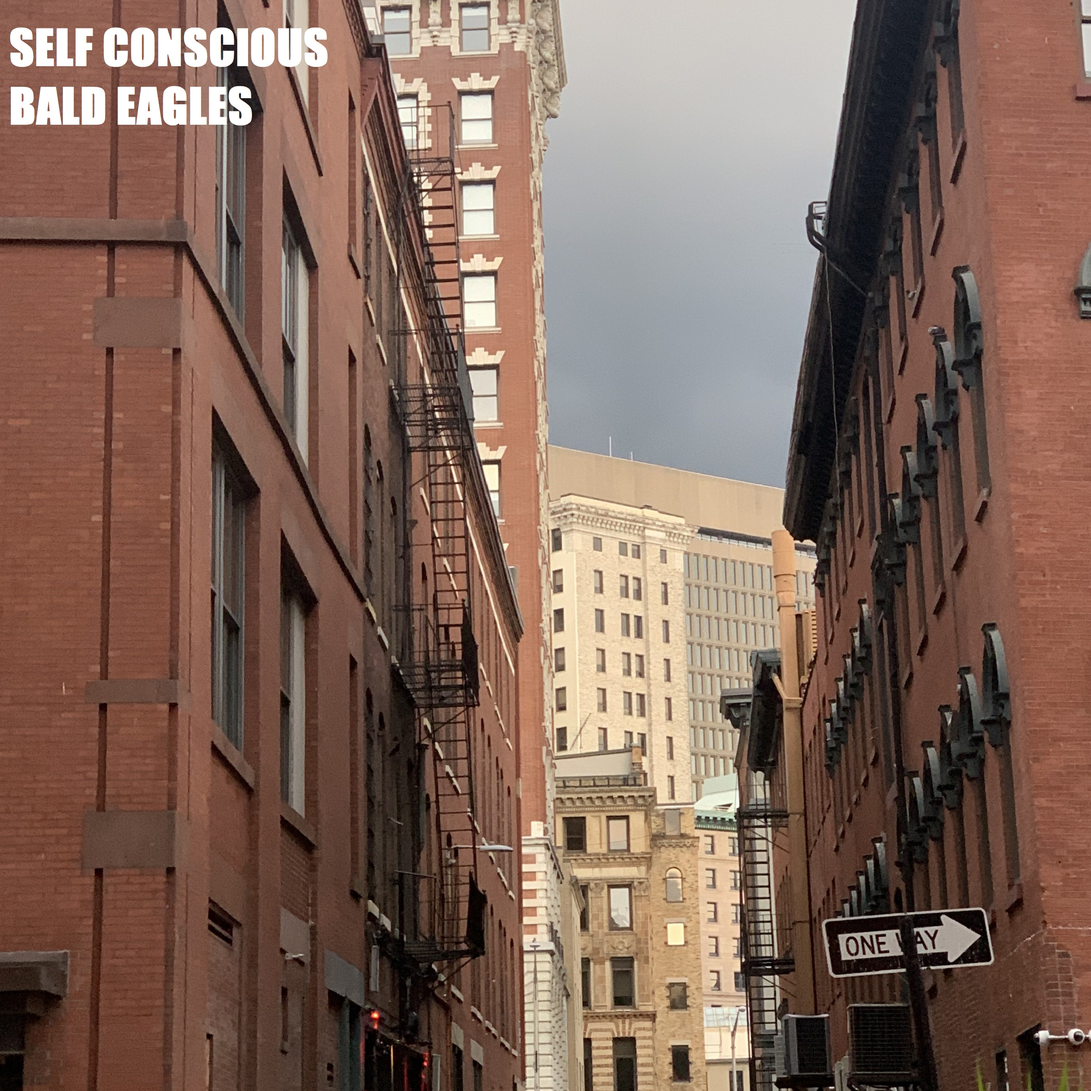
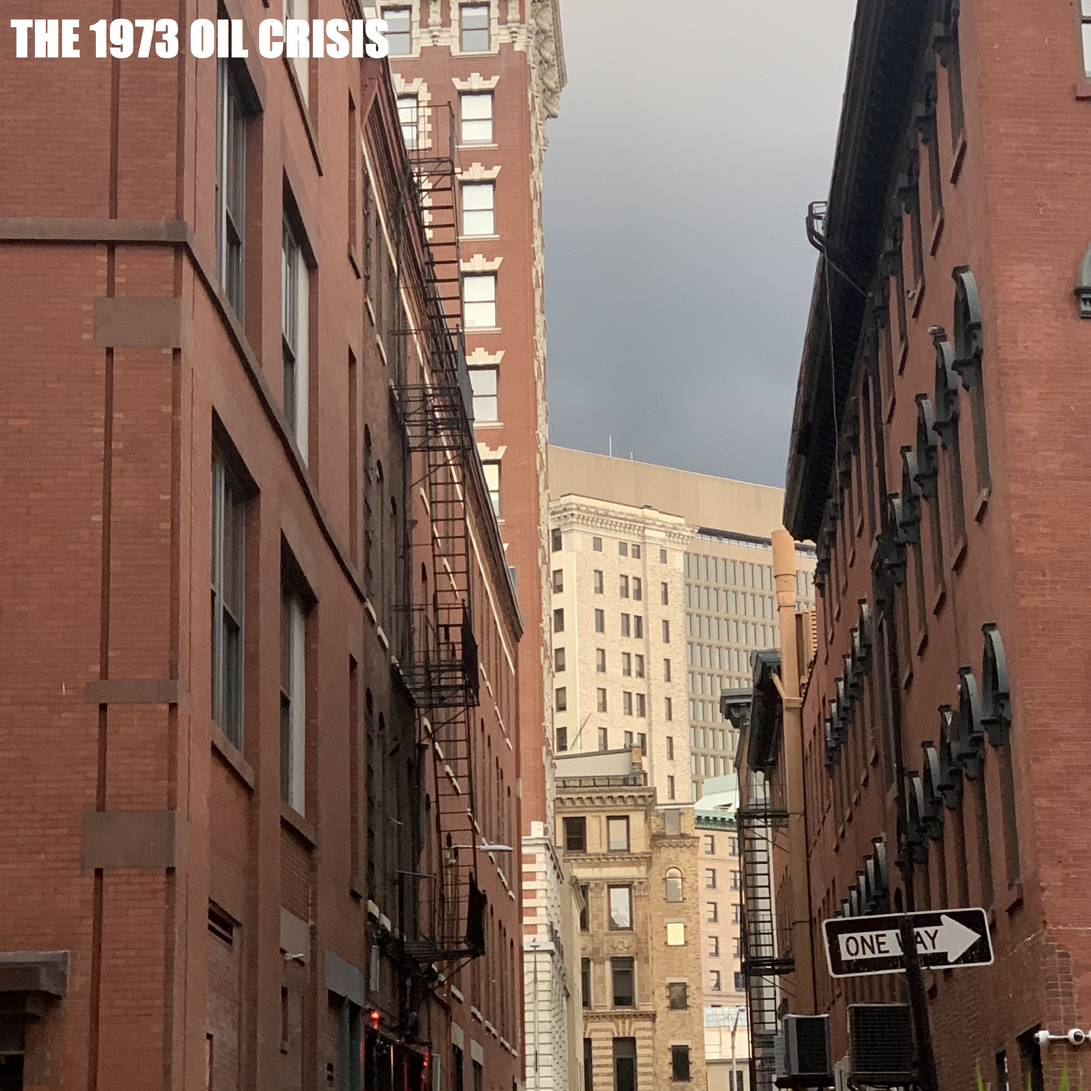
1973 update

Changed region(s): [[0.0, 0.0, 0.372, 0.124]]

diff --git a/index.html b/index.html
@@ -2,7 +2,7 @@
 <html>
 
 <head>
-<title>THE SELF CONSCIOUS BALD EAGLES</title>
+<title>NICK KATSAFANAS ETC</title>
 </head>
 
 <body style="width: 55%">
@@ -23,12 +23,12 @@
 <figure><figcaption>08 Paul Volcker on Mathematicians</figcaption><audio controls src="08math.mp3"</audio></figure>
 <figure><figcaption>09 The Stochastic Nature of Dinner</figcaption><audio controls src="09stochastic.mp3"</audio></figure>
 <br>
-Inspired by the rebetiko of underground Greek hookah dens, 9 songs about a depressed blue whale, a visit to the doctor by John Stamos, Nick Van Exel's plight at a strip club, a stabbing at a state university, and former Federal Reserve Chairman Paul Volcker's strenuous dilemma.
+Sprung from the Rebetiko tradition, 9 songs telling the stories of a depressed blue whale, a visit to the doctor by John Stamos, Nick Van Exel's plight at a strip club, a stabbing at a state university, and former Federal Reserve Chairman Paul Volcker's strenuous dilemma.
 <br>
 <br>
 </font>
 <font size="+1" face="georgia" color="black">
-The Self Conscious Bald Eagles - <i>s/t</i><br>
+The 1973 Oil Crisis - <i>s/t</i><br>
 <a href="http://neenee.org/lyrics" target="_blank">Lyrics</a><br>
 Nick Katsafanas - Vocals, Mandolin<br>
 Recorded at 1455 Mineral Spring Avenue, Providence, RI
